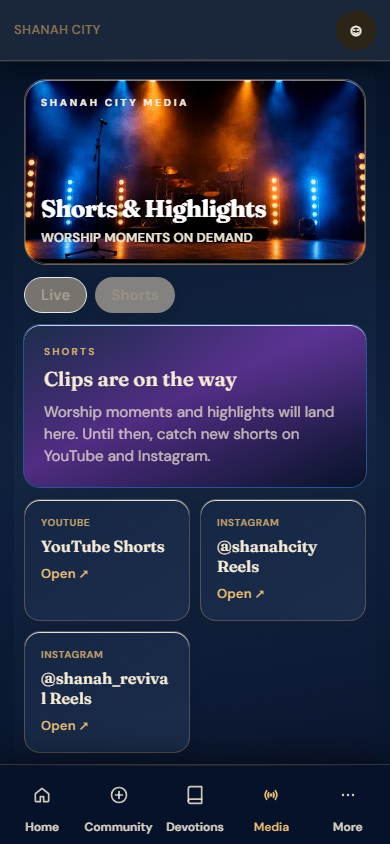
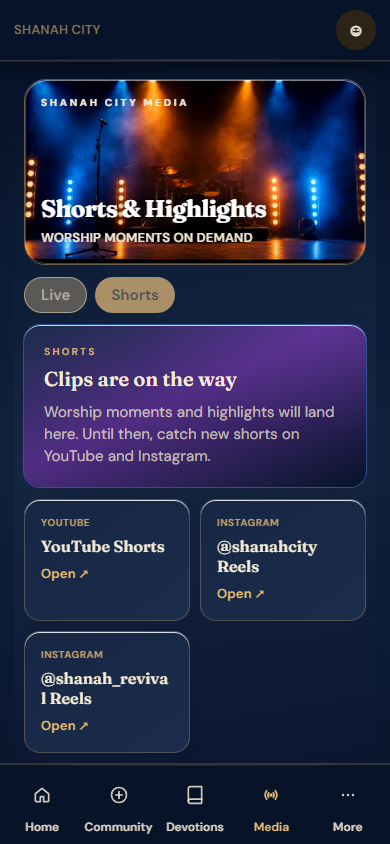
test(ui): assert opaque mobile chrome and Live/Shorts tab states in Playwright
Add computed-style checks for header and bottom nav during scroll, wire media tab aria-selected and cinematic pill styling, and refresh 390x844/430x932 regression screenshots.

diff --git a/e2e/mobile-native-density-screenshots.spec.ts b/e2e/mobile-native-density-screenshots.spec.ts
@@ -7,6 +7,7 @@ import {
   assertNoRuntimeErrors,
   waitForImages,
 } from "./premium-v4-screenshot-helpers";
+import { assertOpaqueMobileChrome } from "./helpers/mobile-opaque-chrome";
 
 const artifactDir = path.join(process.cwd(), "docs/mobile-native-density-screenshots");
 
@@ -31,6 +32,7 @@ test.describe("Mobile native density screenshots", () => {
       await page.waitForSelector(".premium-home-v4, .app-main", { timeout: 90_000 });
       await page.waitForFunction(() => document.body.dataset.shell === "mobile");
       await assertNoHorizontalOverflow(page);
+      await assertOpaqueMobileChrome(page);
       await page.screenshot({
         path: path.join(artifactDir, `home-${vp.tag}-viewport.png`),
         fullPage: false,
@@ -38,6 +40,7 @@ test.describe("Mobile native density screenshots", () => {
       await page.evaluate(() => window.scrollTo(0, Math.min(720, document.body.scrollHeight * 0.45)));
       await page.waitForTimeout(200);
       await assertNoHorizontalOverflow(page);
+      await assertOpaqueMobileChrome(page);
       await page.screenshot({
         path: path.join(artifactDir, `home-${vp.tag}-scrolled.png`),
         fullPage: false,
@@ -46,6 +49,11 @@ test.describe("Mobile native density screenshots", () => {
       await page.goto("/live", { waitUntil: "networkidle" });
       await page.waitForSelector(".sc-v4-media, .mobile-media-hub, .app-main", { timeout: 90_000 });
       await assertNoHorizontalOverflow(page);
+      await assertOpaqueMobileChrome(page);
+      await expect(page.locator(".mobile-tab-pills button", { hasText: /^Live/i })).toHaveAttribute(
+        "aria-selected",
+        "true",
+      );
       await page.screenshot({
         path: path.join(artifactDir, `live-${vp.tag}-viewport.png`),
         fullPage: false,
@@ -53,19 +61,29 @@ test.describe("Mobile native density screenshots", () => {
       await page.evaluate(() => window.scrollTo(0, Math.min(640, document.body.scrollHeight * 0.4)));
       await page.waitForTimeout(200);
       await assertNoHorizontalOverflow(page);
+      await assertOpaqueMobileChrome(page);
       await page.screenshot({
         path: path.join(artifactDir, `live-${vp.tag}-scrolled.png`),
         fullPage: false,
       });
 
-      await page.getByRole("button", { name: /Shorts/i }).click();
+      await page.locator(".mobile-tab-pills button", { hasText: /^Shorts/i }).click();
       await page
         .locator(".sc-v4-media, .mobile-media-hub")
         .getByText(/Shorts|Clips are on the way|Upload a vertical clip/i)
         .first()
         .waitFor({ state: "visible", timeout: 30_000 });
+      await expect(page.locator(".mobile-tab-pills button", { hasText: /^Shorts/i })).toHaveAttribute(
+        "aria-selected",
+        "true",
+      );
+      await expect(page.locator(".mobile-tab-pills button", { hasText: /^Live/i })).toHaveAttribute(
+        "aria-selected",
+        "false",
+      );
       await waitForImages(page, ".sc-v4-media, .mobile-media-hub", 0);
       await assertNoHorizontalOverflow(page);
+      await assertOpaqueMobileChrome(page);
       await page.screenshot({
         path: path.join(artifactDir, `shorts-${vp.tag}-viewport.png`),
         fullPage: false,
@@ -80,6 +98,7 @@ test.describe("Mobile native density screenshots", () => {
       await page.goto("/sermons", { waitUntil: "networkidle" });
       await page.waitForSelector(".sc-v4-sermons", { timeout: 90_000 });
       await assertNoHorizontalOverflow(page);
+      await assertOpaqueMobileChrome(page);
       await page.screenshot({
         path: path.join(artifactDir, `sermons-${vp.tag}-viewport.png`),
         fullPage: false,
@@ -87,6 +106,7 @@ test.describe("Mobile native density screenshots", () => {
       await page.evaluate(() => window.scrollTo(0, Math.min(800, document.body.scrollHeight * 0.55)));
       await page.waitForTimeout(200);
       await assertNoHorizontalOverflow(page);
+      await assertOpaqueMobileChrome(page);
       await page.screenshot({
         path: path.join(artifactDir, `sermons-${vp.tag}-scrolled.png`),
         fullPage: false,

diff --git a/e2e/mobile-native-density-scroll.spec.ts b/e2e/mobile-native-density-scroll.spec.ts
@@ -1,4 +1,5 @@
 import { test, expect } from "@playwright/test";
+import { assertOpaqueMobileChrome } from "./helpers/mobile-opaque-chrome";
 
 const pages = ["/", "/live", "/sermons"] as const;
 const sizes = [
@@ -29,9 +30,11 @@ test.describe("Native mobile layout and scroll regressions", () => {
         expect(before.mainWidth).toBeLessThanOrEqual(before.viewportWidth + 1);
         expect(before.headerBottom).toBeGreaterThan(0);
         expect(before.navTop).toBeLessThanOrEqual(viewport.height);
+        await assertOpaqueMobileChrome(page);
 
         await page.evaluate(() => window.scrollTo({ top: 550, behavior: "instant" }));
         await page.waitForTimeout(150);
+        await assertOpaqueMobileChrome(page);
         const scrolled = await page.evaluate(() => {
           const header = document.querySelector(".mobile-app-header")?.getBoundingClientRect();
           const bottom = document.querySelector(".app-mobile-bottom-nav")?.getBoundingClientRect();
@@ -52,4 +55,39 @@ test.describe("Native mobile layout and scroll regressions", () => {
       });
     }
   }
+
+  test("live and shorts tab selected states at 390x844", async ({ page }) => {
+    await page.setViewportSize({ width: 390, height: 844 });
+    await page.goto("/live", { waitUntil: "networkidle" });
+    await page.waitForSelector(".mobile-tab-pills", { timeout: 60_000 });
+
+    const liveTab = page.locator(".mobile-tab-pills button", { hasText: /^Live/i });
+    const shortsTab = page.locator(".mobile-tab-pills button", { hasText: /^Shorts/i });
+
+    await expect(liveTab).toHaveAttribute("aria-selected", "true");
+    await expect(shortsTab).toHaveAttribute("aria-selected", "false");
+
+    const liveSelected = await liveTab.evaluate((el) => {
+      const s = getComputedStyle(el);
+      return { color: s.color, backgroundColor: s.backgroundColor, opacity: s.opacity };
+    });
+    expect(parseFloat(liveSelected.opacity)).toBe(1);
+    expect(liveSelected.backgroundColor).toBe("rgb(233, 188, 114)");
+
+    await shortsTab.click();
+    await expect(shortsTab).toHaveAttribute("aria-selected", "true");
+    await expect(liveTab).toHaveAttribute("aria-selected", "false");
+    await page.waitForFunction(() => {
+      const live = document.querySelector('.mobile-tab-pills button[aria-selected="false"]');
+      if (!live) return false;
+      return getComputedStyle(live).backgroundColor === "rgb(27, 45, 75)";
+    });
+
+    const inactiveLive = await liveTab.evaluate((el) => {
+      const s = getComputedStyle(el);
+      return { color: s.color, backgroundColor: s.backgroundColor, opacity: s.opacity };
+    });
+    expect(parseFloat(inactiveLive.opacity)).toBe(1);
+    expect(inactiveLive.backgroundColor).toBe("rgb(27, 45, 75)");
+  });
 });

diff --git a/src/components/app/MobileTabPills.tsx b/src/components/app/MobileTabPills.tsx
@@ -13,6 +13,8 @@ type MobileTabPillsProps = {
   activeId: string;
   onChange: (id: string) => void;
   className?: string;
+  /** Cinematic media hub: pill look is driven by premium V4 CSS, not editorial Tailwind tokens. */
+  variant?: "default" | "cinematic";
 };
 
 export function MobileTabPills({
@@ -20,17 +22,29 @@ export function MobileTabPills({
   activeId,
   onChange,
   className = "",
+  variant = "default",
 }: MobileTabPillsProps) {
   return (
-    <div className={`mobile-tab-pill-bar flex flex-wrap gap-2 ${className}`}>
+    <div
+      className={`mobile-tab-pills mobile-tab-pill-bar flex flex-wrap gap-2 ${className}`}
+      role="tablist"
+    >
       {tabs.map((tab) => {
         const active = activeId === tab.id;
         return (
           <button
             key={tab.id}
             type="button"
+            role="tab"
+            aria-selected={active}
             onClick={() => onChange(tab.id)}
-            className={active ? editorialPremium.tabActive : editorialPremium.tabIdle}
+            className={
+              variant === "cinematic"
+                ? "mobile-tab-pill-cinematic rounded-full px-4 py-1.5 text-sm font-semibold transition active:scale-[0.98]"
+                : active
+                  ? editorialPremium.tabActive
+                  : editorialPremium.tabIdle
+            }
           >
             {tab.label}
             {tab.badge && tab.badge > 0 ? (

diff --git a/e2e/helpers/mobile-opaque-chrome.ts b/e2e/helpers/mobile-opaque-chrome.ts
@@ -1,0 +1,28 @@
+import { expect, type Page } from "@playwright/test";
+
+const NAVY_RGB = "rgb(6, 19, 41)";
+
+export async function assertOpaqueMobileChrome(page: Page) {
+  const chrome = await page.evaluate((navyRgb) => {
+    const header = document.querySelector("header.mobile-app-header");
+    const nav = document.querySelector("nav.app-mobile-bottom-nav");
+    const headerStyle = header ? getComputedStyle(header) : null;
+    const navStyle = nav ? getComputedStyle(nav) : null;
+    return {
+      headerOpacity: headerStyle?.opacity ?? "",
+      navOpacity: navStyle?.opacity ?? "",
+      headerBackdrop: headerStyle?.backdropFilter ?? "",
+      navBackdrop: navStyle?.backdropFilter ?? "",
+      headerBg: headerStyle?.backgroundColor ?? "",
+      navBg: navStyle?.backgroundColor ?? "",
+      navyRgb,
+    };
+  }, NAVY_RGB);
+
+  expect(parseFloat(chrome.headerOpacity || "0"), "header opacity").toBe(1);
+  expect(parseFloat(chrome.navOpacity || "0"), "bottom nav opacity").toBe(1);
+  expect(chrome.headerBackdrop, "header backdrop-filter").toBe("none");
+  expect(chrome.navBackdrop, "nav backdrop-filter").toBe("none");
+  expect(chrome.headerBg, "header background").toBe(NAVY_RGB);
+  expect(chrome.navBg, "nav background").toBe(NAVY_RGB);
+}

diff --git a/src/app/premium-v4-media.css b/src/app/premium-v4-media.css
@@ -39,8 +39,17 @@
 }
 .sc-v4-media .mobile-tab-pills button[aria-selected="true"],
 .sc-v4-media .mobile-tab-pills button[data-state="active"] {
-  color: #061329;
-  background: linear-gradient(110deg, #e9bc72, #c18bda);
+  color: #061329 !important;
+  background: #e9bc72 !important;
+  background-image: none !important;
+  opacity: 1 !important;
+}
+.sc-v4-media .mobile-tab-pills button[aria-selected="false"] {
+  color: #f6ebd5 !important;
+  background: #1b2d4b !important;
+  background-image: none !important;
+  border: 1px solid rgba(233, 188, 114, 0.4) !important;
+  opacity: 1 !important;
 }
 /* Mobile player metadata is a deliberate navy surface instead of the old white strip. */
 .sc-v4-media .media-live-v4-metadata {

diff --git a/scripts/mobile-native-density-scroll.test.ts b/scripts/mobile-native-density-scroll.test.ts
@@ -23,4 +23,7 @@ assert.match(header, /sticky top-0/);
 assert.match(nav, /fixed bottom-0/);
 assert.doesNotMatch(css, /display:\s*none\s*!important/, "do not hide navigation or cards");
 assert.match(css, /padding-top:\s*\.75rem/);
+assert.match(css, /opacity:\s*1\s*!important/);
+assert.match(css, /aria-selected="false"/);
+assert.match(css, /backdrop-filter:\s*none\s*!important/);
 console.log("mobile native density/scroll layout guards OK");

diff --git a/src/app/mobile-native-density.css b/src/app/mobile-native-density.css
@@ -175,7 +175,8 @@
   body.premium-v4-cinematic-active .sc-v4-media .mobile-tab-pills button[aria-selected="false"] {
     color: #f6ebd5 !important;
     background: #1b2d4b !important;
-    border: 1px solid rgba(233,188,114,.4);
+    background-image: none !important;
+    border: 1px solid rgba(233,188,114,.4) !important;
     opacity: 1 !important;
   }
 }

diff --git a/src/components/media/MobileMediaHub.tsx b/src/components/media/MobileMediaHub.tsx
@@ -53,6 +53,7 @@ export function MobileMediaHub({
 
       <MobileTabPills
         className="mb-0.5"
+        variant="cinematic"
         tabs={[
           { id: "live", label: "Live" },
           { id: "clips", label: clips.length > 0 ? `Shorts · ${clips.length}` : "Shorts" },
